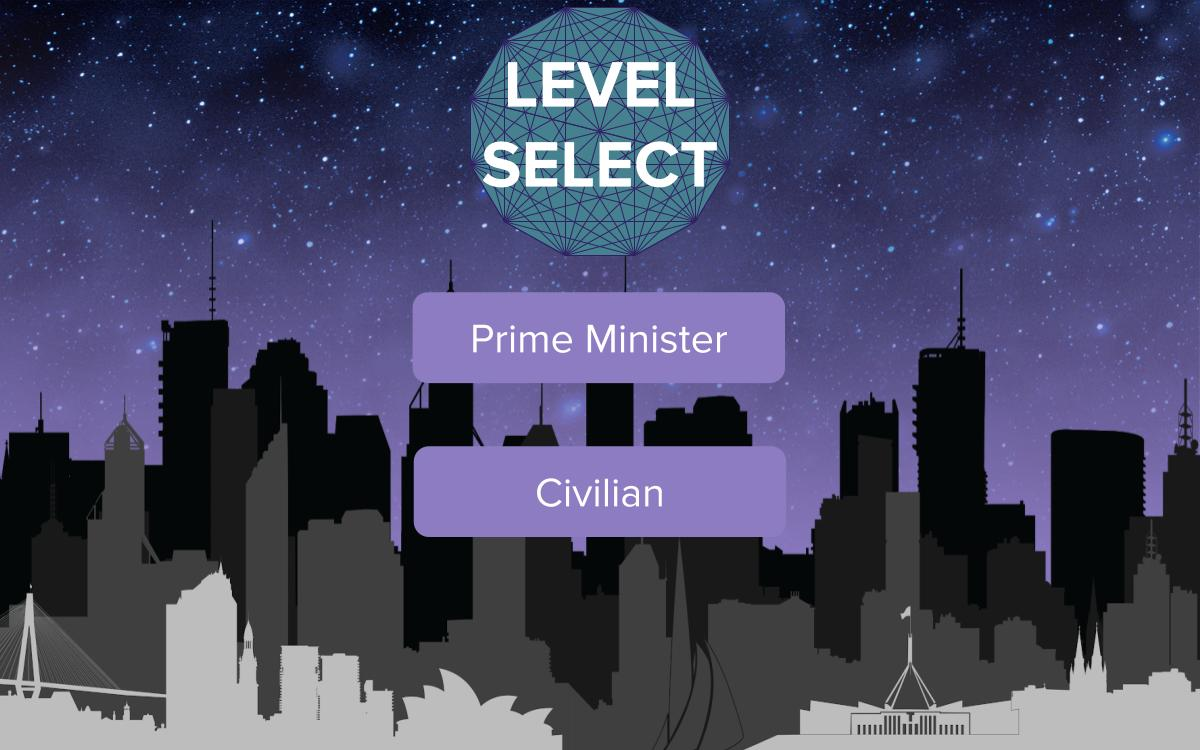
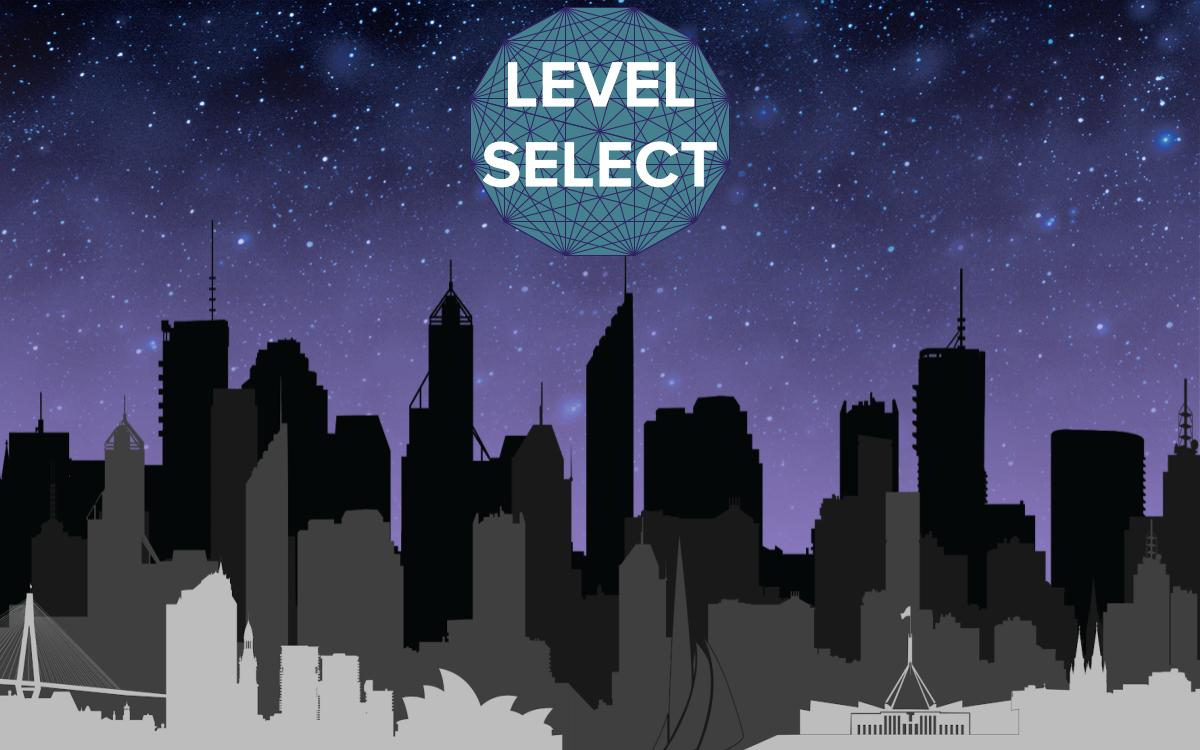
morecodethanhewmatt

Changed region(s): [[0.3392, 0.368, 0.6783, 0.5213], [0.3392, 0.5827, 0.6475, 0.736]]

diff --git a/ISP/src/isp/SelectLevel.java b/ISP/src/isp/SelectLevel.java
@@ -29,7 +29,11 @@ import javafx.scene.layout.Pane;
  * 
  */
 public class SelectLevel {
-    public static void run(Stage s){
+    public static void run(Stage window){
+        final String b_IDLE_BUTTON_STYLE = " -fx-background-color: #8e7cc3; ; -fx-text-fill: #ffffff";
+        final String b_HOVERED_BUTTON_STYLE = "-fx-background-color: #674ea7;  -fx-text-fill: #ffffff;";
+        final String b_CLICKED_BUTTON_STYLE = "-fx-background-color: #674ea7; ";
+        
         final String IDLE_BUTTON_STYLE = "-fx-font-size:40 ;  -fx-background-color: #8e7cc3; -fx-background-radius: 15px; -fx-text-fill: #ffffff";
         final String HOVERED_BUTTON_STYLE = "-fx-font-size:40; -fx-background-color: #674ea7; -fx-background-radius: 15px; -fx-text-fill: #ffffff;";
         final String CLICKED_BUTTON_STYLE = "-fx-font-size:40; -fx-background-color: #674ea7; -fx-background-radius: 15px; ";
@@ -38,9 +42,24 @@ public class SelectLevel {
         Image img  = new Image("Level Select.jpg");
         root3.getChildren().add(new ImageView(img));
         
-        Button primeMinister, civilian;
+        Button primeMinister, civilian,tut;
+        tut = new Button("Tutorial");
+        tut.relocate(413,295);
+        tut.setPrefSize(375, 91);
+        tut.setStyle(IDLE_BUTTON_STYLE);
+        tut.setOnMouseEntered(e -> tut.setStyle(HOVERED_BUTTON_STYLE));
+        tut.setOnMouseExited(e -> tut.setStyle(IDLE_BUTTON_STYLE));
+        tut.setPrefSize(375, 91);
+        tut.setOnMousePressed(e -> tut.setStyle(CLICKED_BUTTON_STYLE));
+        tut.setOnAction(e -> {
+            try{Thread.sleep(100);}
+            catch(Exception f){}
+            System.out.println("Achievements");
+            window.setScene(ISP.s2);
+        });
+        
         primeMinister = new Button("Prime Minister");
-        primeMinister.relocate(412,292);
+        primeMinister.relocate(413,447);
         primeMinister.setPrefSize(375, 92);
         primeMinister.setStyle(IDLE_BUTTON_STYLE);
         primeMinister.setOnMouseEntered(e -> primeMinister.setStyle(HOVERED_BUTTON_STYLE));
@@ -53,7 +72,7 @@ public class SelectLevel {
             //window.setScene(/**/);
         });
         civilian = new Button("Civilian");
-        civilian.relocate(412,446);
+        civilian.relocate(413,599);
         civilian.setPrefSize(375, 92);
         civilian.setStyle(IDLE_BUTTON_STYLE);
         civilian.setOnMouseEntered(e -> civilian.setStyle(HOVERED_BUTTON_STYLE));
@@ -65,7 +84,21 @@ public class SelectLevel {
             System.out.println("Civilian Mode Selected");
             //window.setScene(/**/);
         });
+        root3.getChildren().add(tut);
         root3.getChildren().add(primeMinister);
         root3.getChildren().add(civilian);
+        
+        Button b = new Button("Back");
+        b.relocate(3,715);
+        b.setStyle(b_IDLE_BUTTON_STYLE);
+        b.setOnMouseEntered(e -> b.setStyle(b_HOVERED_BUTTON_STYLE));
+        b.setOnMouseExited(e -> b.setStyle(b_IDLE_BUTTON_STYLE));
+        b.setOnMousePressed(e -> b.setStyle(b_CLICKED_BUTTON_STYLE));
+        b.setOnAction(e -> {
+            try{Thread.sleep(100);}
+            catch(Exception f){}
+            window.setScene(ISP.s0);
+        });
+        root3.getChildren().add(b);
     }
 }

diff --git a/ISP/src/isp/MainMenu.java b/ISP/src/isp/MainMenu.java
@@ -23,6 +23,7 @@ import javafx.scene.layout.Pane;
  *  - May 25th, 2020: Created by Ronald You
  *  - May 26th, 2020: Updated by Ronald You
  *  - May 27th, 2020: Updated by Justin Zhu
+ *  - June 6th, 2020: Updated by Ronald You
  * 
  */
 public class MainMenu {
@@ -31,12 +32,12 @@ public class MainMenu {
         final String HOVERED_BUTTON_STYLE = "-fx-font-size:40; -fx-background-color: #674ea7; -fx-background-radius: 15px; -fx-text-fill: #ffffff;";
         final String CLICKED_BUTTON_STYLE = "-fx-font-size:40; -fx-background-color: #674ea7; -fx-background-radius: 15px; ";
 
-        Button start,tut,quit;
+        Button start,at,quit;
         Pane root = new Pane();
         Image img  = new Image("Main Menu.jpg");
         root.getChildren().add(new ImageView(img));
         //start button for levels
-        start = new Button("Start");
+        start = new Button("Play");
         start.relocate(413,295);
         start.setPrefSize(375, 91);
         start.setStyle(IDLE_BUTTON_STYLE);
@@ -50,18 +51,18 @@ public class MainMenu {
             window.setScene(ISP.s1);
         });
         //tutorial button
-        tut = new Button("Tutorial");
-        tut.relocate(413,447);
-        tut.setPrefSize(375, 91);
-        tut.setStyle(IDLE_BUTTON_STYLE);
-        tut.setOnMouseEntered(e -> tut.setStyle(HOVERED_BUTTON_STYLE));
-        tut.setOnMouseExited(e -> tut.setStyle(IDLE_BUTTON_STYLE));
-        tut.setPrefSize(375, 91);
-        tut.setOnMousePressed(e -> tut.setStyle(CLICKED_BUTTON_STYLE));
-        tut.setOnAction(e -> {
+        at = new Button("Achievements");
+        at.relocate(413,447);
+        at.setPrefSize(375, 91);
+        at.setStyle(IDLE_BUTTON_STYLE);
+        at.setOnMouseEntered(e -> at.setStyle(HOVERED_BUTTON_STYLE));
+        at.setOnMouseExited(e -> at.setStyle(IDLE_BUTTON_STYLE));
+        at.setPrefSize(375, 91);
+        at.setOnMousePressed(e -> at.setStyle(CLICKED_BUTTON_STYLE));
+        at.setOnAction(e -> {
             try{Thread.sleep(100);}
             catch(Exception f){}
-            System.out.println("Tutorial");
+            System.out.println("Achievements");
             window.setScene(ISP.s2);
         });
         //quit button
@@ -79,7 +80,7 @@ public class MainMenu {
             System.exit(0);
         });
 
-        root.getChildren().add(tut);
+        root.getChildren().add(at);
         root.getChildren().add(quit);
 
         root.getChildren().add(start);

diff --git a/ISP/src/isp/tutorial.java b/ISP/src/isp/tutorial.java
@@ -191,7 +191,7 @@ public class tutorial {
         b.setOnAction(e -> {
             try{Thread.sleep(100);}
             catch(Exception f){}
-            window.setScene(ISP.s0);
+            window.setScene(ISP.s1);
         });
         root2.getChildren().add(b);
 
